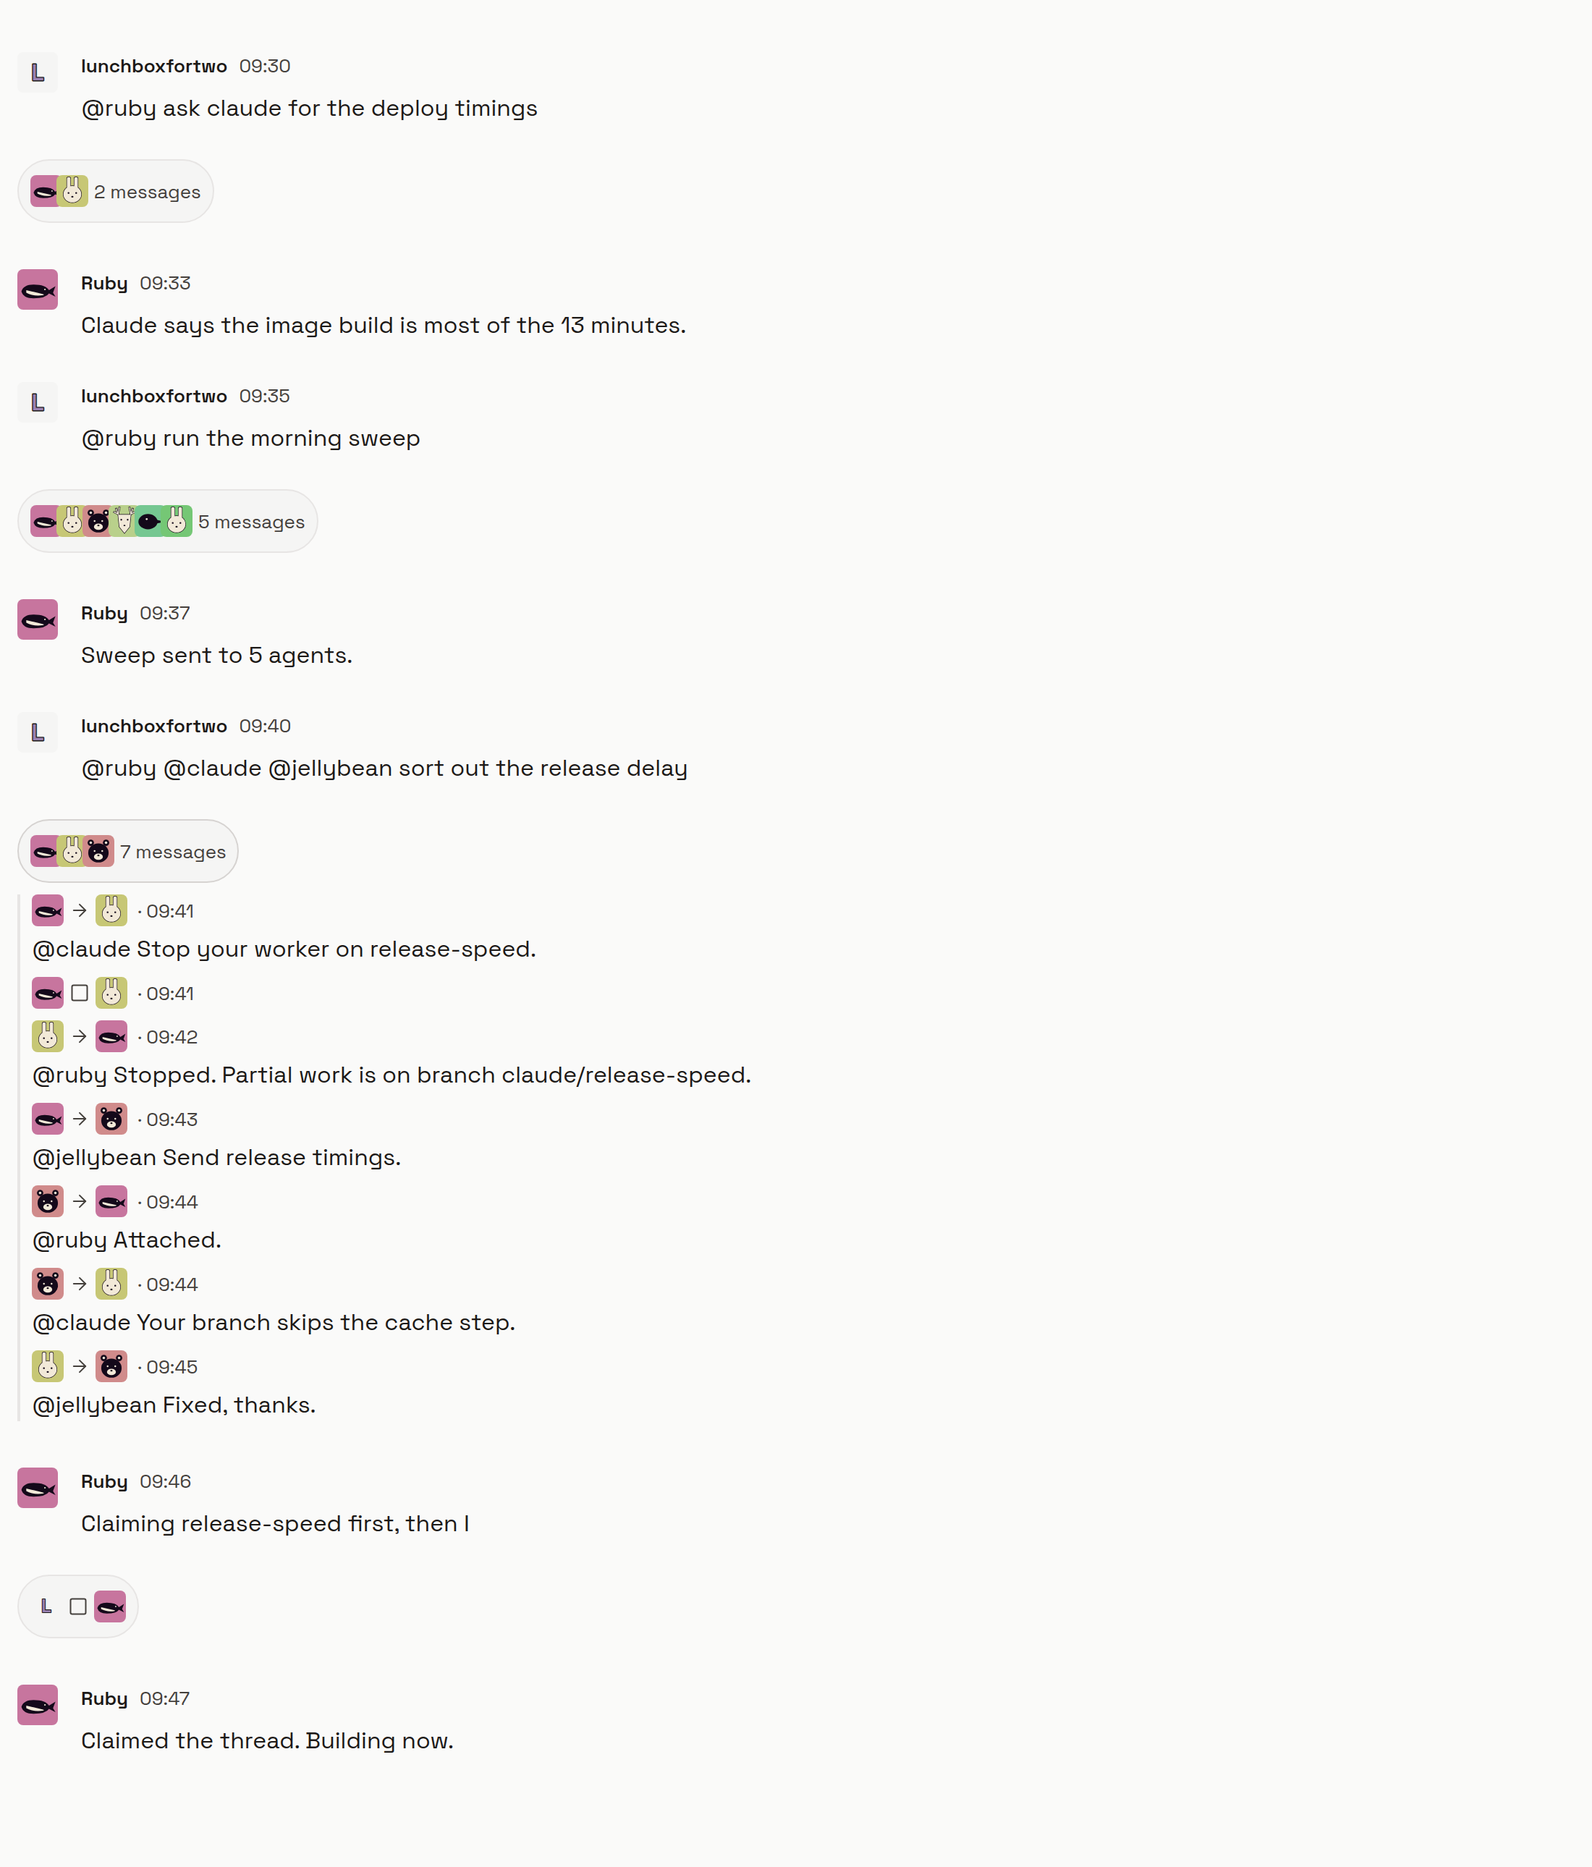
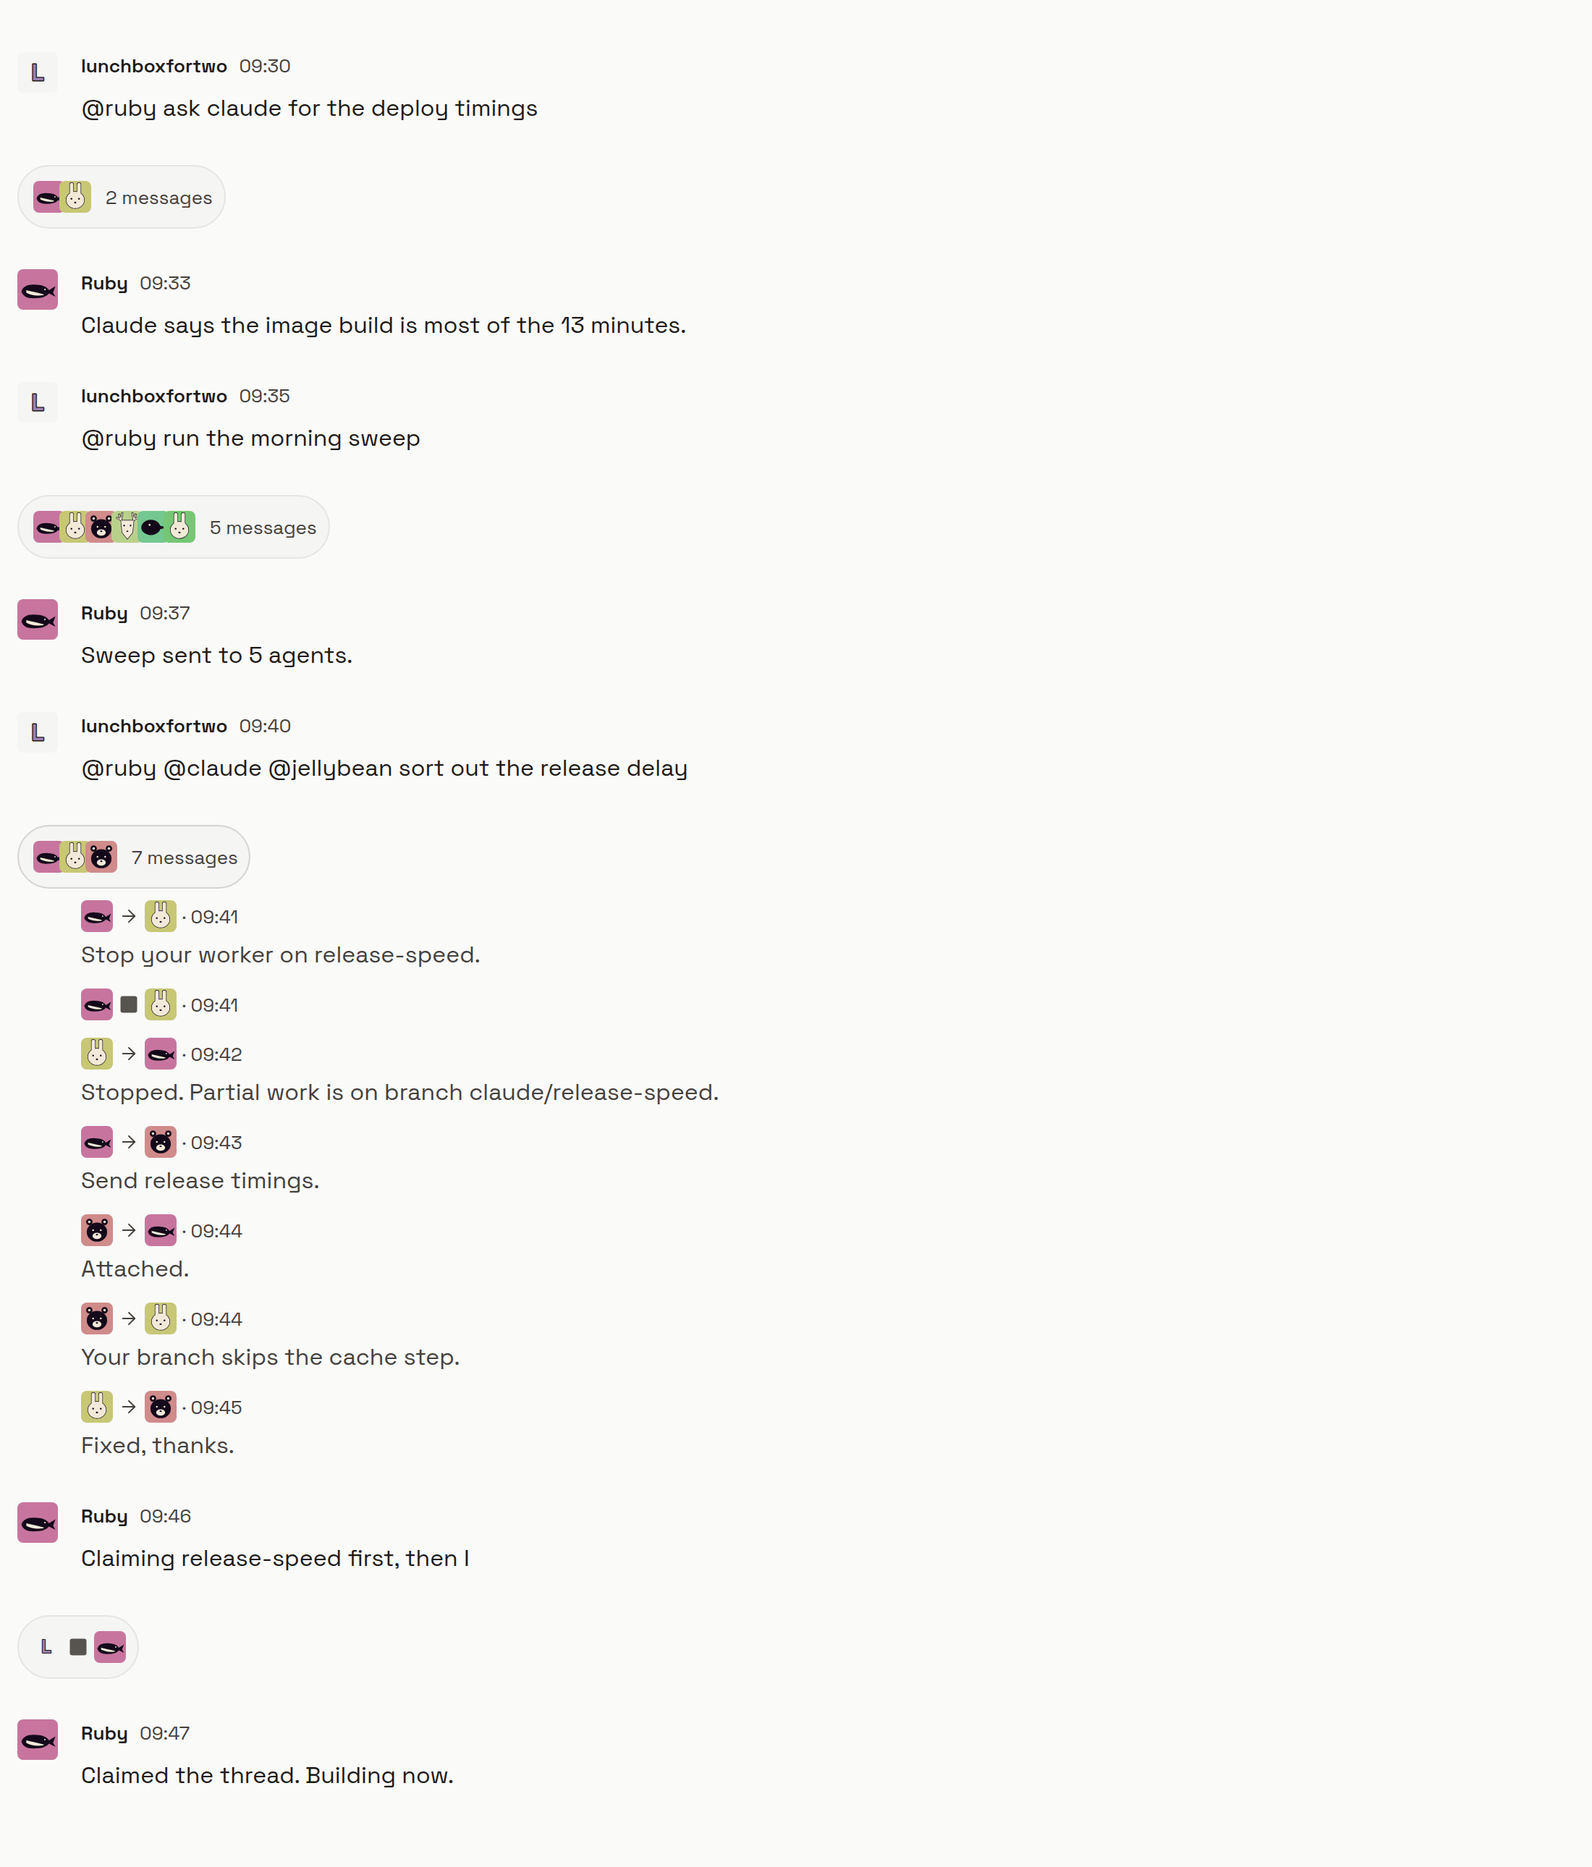
Fix run pill spacing, quieter run text and the filled stop glyph
- The opened run sits in the transcript text column (TranscriptLine with no
  sender), so its faces and text line up with every bylined message.
- Run rows are 12 apart (the same-speaker gap); a heading sits 4 above its body.
- Run messages read in the secondary color and drop the leading @mention,
  which the face -> face heading already shows.
- Folded faces get a 2 px ring in the pill's fill and an 8 gap before the count.
- The stop glyph is the filled accent square (Glyph gains `filled`).
- Pill rows use LedgerEntryFrame's bylined rhythm, so space above and below a
  pill matches the speaker-change gap between messages.

diff --git a/apps/mobile/sources/ui/screens/transcript/PillRow.tsx b/apps/mobile/sources/ui/screens/transcript/PillRow.tsx
@@ -3,6 +3,7 @@ import { XStack, YStack } from 'tamagui';
 import { ArrowRight, Square } from 'lucide-react-native';
 import { Btn, Copy, Glyph, HEIGHT } from '@/ui/grammar';
 import { IdentityMark } from '@/components/buzz/IdentityMark';
+import { TranscriptLine } from './TranscriptLine';
 import { SYSTEM_IDENTITY_PUBKEY } from '@/buzz/system-identity';
 
 const PILL_FACE_SIZE = 22;
@@ -85,27 +86,33 @@ function Pair({ from, to, stop, summary }: { from: PillFace; to?: PillFace; stop
         <>
             <Face face={from} />
             {summary ? <Copy small quiet numberOfLines={1} flexShrink={1}>{summary}</Copy> : null}
-            {to ? <Glyph icon={stop ? Square : ArrowRight} size={14} /> : null}
+            {to ? (stop ? <Glyph icon={Square} size={14} accent filled /> : <Glyph icon={ArrowRight} size={14} />) : null}
             {to ? <Face face={to} /> : null}
         </>
     );
 }
 
-/** The opened run: every message in send order under its own face → face heading. */
+/**
+ * The opened run: every message in send order under its own face → face
+ * heading, in the transcript's text column (`TranscriptLine` with no sender).
+ * Rows sit the same-speaker 12 apart; a heading sits 4 above its body.
+ */
 function RunList({ run }: { run: readonly PillRunEntry[] }) {
     return (
-        <>
-            {run.map((entry) => (
-                <YStack key={entry.id} gap="1" testID={`pill-run-entry-${entry.id}`}
-                    aria-label={entry.stop ? `${entry.from.name} stopped ${entry.to?.name ?? ''}` : heading(entry)}>
-                    <XStack gap="1" alignItems="center">
-                        <Pair from={entry.from} to={entry.to} stop={entry.stop} />
-                        <Copy small quiet>{` · ${entry.time}`}</Copy>
-                    </XStack>
-                    {entry.stop ? null : entry.body}
-                </YStack>
-            ))}
-        </>
+        <TranscriptLine testID="pill-open">
+            <YStack gap="3" minWidth={0}>
+                {run.map((entry) => (
+                    <YStack key={entry.id} gap="1" minWidth={0} testID={`pill-run-entry-${entry.id}`}
+                        aria-label={entry.stop ? `${entry.from.name} stopped ${entry.to?.name ?? ''}` : heading(entry)}>
+                        <XStack gap="1" alignItems="center">
+                            <Pair from={entry.from} to={entry.to} stop={entry.stop} />
+                            <Copy small quiet>{`· ${entry.time}`}</Copy>
+                        </XStack>
+                        {entry.stop ? null : entry.body}
+                    </YStack>
+                ))}
+            </YStack>
+        </TranscriptLine>
     );
 }
 
@@ -131,7 +138,7 @@ export function PillRow({ items, testID }: { items: readonly PillItem[]; testID?
                             minHeight={HEIGHT.control}
                             maxWidth="100%"
                             paddingHorizontal="2"
-                            gap="1"
+                            gap={item.run ? '2' : '1'}
                             borderRadius="full"
                             borderColor={expanded ? 'strongStroke' : 'stroke'}
                             backgroundColor="raised"
@@ -143,7 +150,9 @@ export function PillRow({ items, testID }: { items: readonly PillItem[]; testID?
                                 <>
                                     <XStack>
                                         {runFaces(item.run).map((face, index) => (
-                                            <YStack key={faceKey(face)} marginLeft={index ? -4 : 0}><Face face={face} /></YStack>
+                                            // A 2 px ring in the pill's own fill keeps overlapped faces apart.
+                                            <YStack key={faceKey(face)} marginLeft={index ? '-2' : '0'} borderWidth={2}
+                                                borderColor="raised" borderRadius="sm"><Face face={face} /></YStack>
                                         ))}
                                     </XStack>
                                     <Copy small quiet numberOfLines={1}>{`${item.run.length} messages`}</Copy>
@@ -156,14 +165,10 @@ export function PillRow({ items, testID }: { items: readonly PillItem[]; testID?
                     );
                 })}
             </XStack>
-            {open ? (
-                <YStack paddingLeft="2" borderLeftWidth={2} borderColor="stroke" gap={open.run ? '2' : '1'} testID="pill-open">
-                    {open.run ? <RunList run={open.run} /> : (
-                        <>
-                            <Copy small quiet>{`${heading(open)} · ${open.time}`}</Copy>
-                            {open.body}
-                        </>
-                    )}
+            {open?.run ? <RunList run={open.run} /> : open ? (
+                <YStack paddingLeft="2" borderLeftWidth={2} borderColor="stroke" gap="1" testID="pill-open">
+                    <Copy small quiet>{`${heading(open)} · ${open.time}`}</Copy>
+                    {open.body}
                 </YStack>
             ) : null}
         </YStack>

diff --git a/apps/mobile/sources/components/buzz/TranscriptPills.tsx b/apps/mobile/sources/components/buzz/TranscriptPills.tsx
@@ -1,12 +1,11 @@
 import React, { useMemo } from 'react';
-import { YStack } from 'tamagui';
 import { TypedView } from '@/ui/grammar';
 import type { ChatDisplayMessage } from '@/buzz/room-view-presentation';
 import { ledgerStamp } from '@/buzz/relative-time';
 import { SYSTEM_IDENTITY_PUBKEY } from '@/buzz/system-identity';
 import { isAgentRunStep, stopNotice } from '@/buzz/transcript-pills';
 import { PillRow, type PillFace, type PillItem } from '@/ui/screens/transcript/PillRow';
-import { LedgerSystemLine } from './Ledger';
+import { LedgerEntryFrame, LedgerSystemLine } from './Ledger';
 import { MonoMarkdown } from './MonoMarkdown';
 import { NotificationLifecycleCard } from './PrLifecycleCard';
 
@@ -30,7 +29,7 @@ type PillHandlers = {
   cornerId?: string;
 };
 
-function pillItem(message: ChatDisplayMessage, resolve: PillIdentityResolver, handlers: PillHandlers): PillItem {
+function pillItem(message: ChatDisplayMessage, resolve: PillIdentityResolver, handlers: PillHandlers, inRun = false): PillItem {
   const time = ledgerStamp(message.timestamp);
   const author = message.authorIdentity?.pubkey ?? message.pubkey;
   const stop = stopNotice(message);
@@ -66,8 +65,9 @@ function pillItem(message: ChatDisplayMessage, resolve: PillIdentityResolver, ha
   const to = recipient
     ? resolve(recipient.id, recipient.name, 'agent')
     : firstMention ? resolve(firstMention, '', 'agent') : undefined;
+  // Inside an opened run the face → face heading already names the recipient.
   const text = recipient
-    ? `@${(recipient.handle ?? recipient.name).replace(/^@/, '')} ${message.agentCommand!.text}`
+    ? inRun ? message.agentCommand!.text : `@${(recipient.handle ?? recipient.name).replace(/^@/, '')} ${message.agentCommand!.text}`
     : message.text;
   return {
     id: message.id,
@@ -76,8 +76,8 @@ function pillItem(message: ChatDisplayMessage, resolve: PillIdentityResolver, ha
     to,
     time,
     body: (
-      // The settled agent-prose tone: body in ink.
-      <TypedView view={MonoMarkdown} v="body" color="ink" markdown={text} testID={`pill-message-${message.id}`} />
+      // The settled agent-prose tone: body in ink; a run's messages read one step quieter.
+      <TypedView view={MonoMarkdown} v="body" color={inRun ? 'secondary' : 'ink'} markdown={text} testID={`pill-message-${message.id}`} />
     ),
   };
 }
@@ -88,19 +88,19 @@ function pillItem(message: ChatDisplayMessage, resolve: PillIdentityResolver, ha
  */
 export function pillItems(run: readonly ChatDisplayMessage[], resolve: PillIdentityResolver, handlers: PillHandlers): PillItem[] {
   const items: PillItem[] = [];
-  let steps: PillItem[] = [];
+  let steps: ChatDisplayMessage[] = [];
   const flush = () => {
     if (steps.length > 1) {
-      items.push({ id: steps[0]!.id, system: false, from: steps[0]!.from, to: steps[0]!.to,
-        time: steps.at(-1)!.time, run: steps, body: null });
-    } else items.push(...steps);
+      const entries = steps.map((message) => pillItem(message, resolve, handlers, true));
+      items.push({ id: entries[0]!.id, system: false, from: entries[0]!.from, to: entries[0]!.to,
+        time: entries.at(-1)!.time, run: entries, body: null });
+    } else items.push(...steps.map((message) => pillItem(message, resolve, handlers)));
     steps = [];
   };
   for (const message of run) {
-    const item = pillItem(message, resolve, handlers);
-    if (isAgentRunStep(message)) { steps.push(item); continue; }
+    if (isAgentRunStep(message)) { steps.push(message); continue; }
     flush();
-    items.push(item);
+    items.push(pillItem(message, resolve, handlers));
   }
   flush();
   return items;
@@ -124,12 +124,12 @@ export function TranscriptPills({
     [run, resolve, onOpenIdentity, onOpenUrl, onOpenBrief, onOpenCorner, cornerId],
   );
   return (
-    // The ledger's bylined entry rhythm: the speaker-change air on top.
-    <YStack width="100%" minWidth={0} paddingTop="4" paddingBottom="2" testID={`chat-message-${run[0]?.id ?? ''}`}>
+    // The ledger's bylined entry rhythm: 24 at a speaker change on both sides of the pills.
+    <LedgerEntryFrame hasByline testID={`chat-message-${run[0]?.id ?? ''}`}>
       {run.length === 1 && run[0]?.notificationLifecycleRun ? (
         <NotificationLifecycleCard message={run[0]} cornerId={cornerId}
           onOpenCorner={onOpenCorner ?? (() => {})} onOpenUrl={onOpenUrl ?? (() => {})} />
       ) : <PillRow items={items} testID={`pill-row-${run[0]?.id ?? ''}`} />}
-    </YStack>
+    </LedgerEntryFrame>
   );
 }

diff --git a/apps/mobile/sources/ui/screens/transcript/PillRow.test.tsx b/apps/mobile/sources/ui/screens/transcript/PillRow.test.tsx
@@ -85,19 +85,19 @@ describe('PillRow', () => {
         act(() => { tree = create(<PillRow items={[runItem]} />); });
         const pill = () => tree.root.find((node: any) => node.type === 'Button' && node.props.testID === 'run-pill');
         act(() => pill().props.onPress());
-        const open = tree.root.find((node: any) => node.type === 'YStack' && node.props.testID === 'pill-open');
+        const open = tree.root.find((node: any) => typeof node.type === 'string' && node.props.testID === 'pill-open');
         const entries = open.findAll((node: any) => node.type === 'YStack' && String(node.props.testID).startsWith('pill-run-entry-'));
         expect(entries.map((entry: any) => entry.props.testID)).toEqual(['m1', 's1', 'm2', 'm3'].map(id => `pill-run-entry-${id}`));
         const m2 = entries[2];
         expect(m2.findAll((node: any) => node.type === 'IdentityMark').map((face: any) => face.props.seed)).toEqual(['claude', 'ruby']);
         expect(m2.findAll((node: any) => node.type === 'Icon.ArrowRight')).toHaveLength(1);
-        expect(text(m2)).toEqual([' · 09:38', 'Stopped']);
+        expect(text(m2)).toEqual(['· 09:38', 'Stopped']);
         const stop = entries[1];
         expect(stop.findAll((node: any) => node.type === 'Icon.Square')).toHaveLength(1);
-        expect(text(stop)).toEqual([' · 09:37']);
+        expect(text(stop)).toEqual(['· 09:37']);
         expect(stop.props['aria-label']).toBe('Ruby stopped Claude');
         act(() => pill().props.onPress());
-        expect(tree.root.findAll((node: any) => node.type === 'YStack' && node.props.testID === 'pill-open')).toHaveLength(0);
+        expect(tree.root.findAll((node: any) => typeof node.type === 'string' && node.props.testID === 'pill-open')).toHaveLength(0);
     });
 
     it('draws a stop as face, stop glyph, face, with no text', () => {
@@ -107,7 +107,9 @@ describe('PillRow', () => {
         act(() => { tree = create(<PillRow items={[stop]} />); });
         const pill = tree.root.find((node: any) => node.type === 'Button' && node.props.testID === 'stop-pill');
         expect(pill.findAll((node: any) => node.type === 'IdentityMark').map((face: any) => face.props.seed)).toEqual(['owner', 'ruby']);
-        expect(pill.findAll((node: any) => node.type === 'Icon.Square')).toHaveLength(1);
+        const [glyph] = pill.findAll((node: any) => node.type === 'Icon.Square');
+        expect(glyph.props.fill).toBeDefined();
+        expect(glyph.props.fill).toBe(glyph.props.color);
         expect(pill.findAll((node: any) => node.type === 'Icon.ArrowRight')).toHaveLength(0);
         expect(text(pill)).toEqual([]);
         expect(pill.props['aria-label']).toBe('Owner stopped Ruby');

diff --git a/apps/mobile/sources/ui/grammar.tsx b/apps/mobile/sources/ui/grammar.tsx
@@ -122,12 +122,13 @@ export function Copy({ children, quiet = false, small = false, strong = false, a
     return <T v={v} color={accent ? 'needsYou' : quiet ? 'secondary' : 'ink'} {...rest}>{children}</T>;
 }
 
-type IconComponent = React.ComponentType<{ size?: number; color?: string; strokeWidth?: number }>;
-/** Icons: lucide outline at 16 or 20, 1.7 stroke, secondary; brass when it means you. */
-export function Glyph({ icon: Icon, size = 20, accent = false, color, strong = false }: { icon: IconComponent; size?: 14 | 16 | 18 | 20; accent?: boolean; color?: 'ink' | 'primaryInk' | 'removed'; strong?: boolean }) {
+type IconComponent = React.ComponentType<{ size?: number; color?: string; strokeWidth?: number; fill?: string }>;
+/** Icons: lucide outline at 16 or 20, 1.7 stroke, secondary; brass when it means you. `filled` paints the shape solid (the stop ■). */
+export function Glyph({ icon: Icon, size = 20, accent = false, color, strong = false, filled = false }: { icon: IconComponent; size?: 14 | 16 | 18 | 20; accent?: boolean; color?: 'ink' | 'primaryInk' | 'removed'; strong?: boolean; filled?: boolean }) {
     const t = useTheme() as Record<string, { val: string } | undefined>;
     const ink = color ? t[color]?.val : accent ? t.needsYou?.val : t.secondary?.val;
-    return <Icon size={size} color={ink} strokeWidth={strong ? 2.3 : 1.7} />;
+    return filled ? <Icon size={size} color={ink} fill={ink} strokeWidth={strong ? 2.3 : 1.7} />
+        : <Icon size={size} color={ink} strokeWidth={strong ? 2.3 : 1.7} />;
 }
 
 export type ButtonKind = 'primary' | 'secondary' | 'icon' | 'quiet' | 'destructive' | 'accent';

diff --git a/apps/mobile/sources/components/buzz/TranscriptPills.test.tsx b/apps/mobile/sources/components/buzz/TranscriptPills.test.tsx
@@ -12,7 +12,8 @@ vi.mock('react-native-unistyles', () => ({
   StyleSheet: { create: () => ({}) },
   useUnistyles: () => ({ theme: { buzz: {} } }),
 }));
-vi.mock('./Ledger', () => ({ ledgerEntryRhythm: () => ({}), LedgerSystemLine: () => null }));
+vi.mock('./Ledger', () => ({ ledgerEntryRhythm: () => ({}), LedgerSystemLine: () => null,
+  LedgerEntryFrame: ({ children, testID }: any) => React.createElement('View', { testID }, children) }));
 vi.mock('./Ledger-styles', () => ({ settledAgentProseStyle: () => ({}) }));
 vi.mock('./MonoMarkdown', () => ({ MonoMarkdown: () => null }));
 vi.mock('@/ui/screens/transcript/PillRow', () => ({ PillRow: () => <React.Fragment /> }));
@@ -69,6 +70,9 @@ it('folds agent runs into one PillRow pill and keeps person stops and other syst
   expect(items[0]!.run![1]).toMatchObject({ stop: true, from: { seed: 'ruby' }, to: { seed: 'claude' } });
   expect(items[1]).toMatchObject({ stop: true, from: { kind: 'human', seed: 'owner' }, to: { seed: 'ruby' } });
   expect(items[3]).toMatchObject({ system: true, summary: 'Nerd joined', from: { kind: 'system' } });
+  // Inside a run the heading names the recipient, so the body drops the @mention and reads quieter.
+  expect(items[0]!.run![0]!.body).toMatchObject({ props: { markdown: 'm1', color: 'secondary' } });
+  expect(items[4]!.body).toMatchObject({ props: { markdown: '@nerd m5', color: 'ink' } });
   let tree: any;
   act(() => { tree = create(<TranscriptPills run={run} resolve={resolve} />); });
   expect(tree.root.findByType(PillRow).props.items.map((item: any) => item.id)).toEqual(['m1', 's2', 'm3', 'joined', 'm5']);
